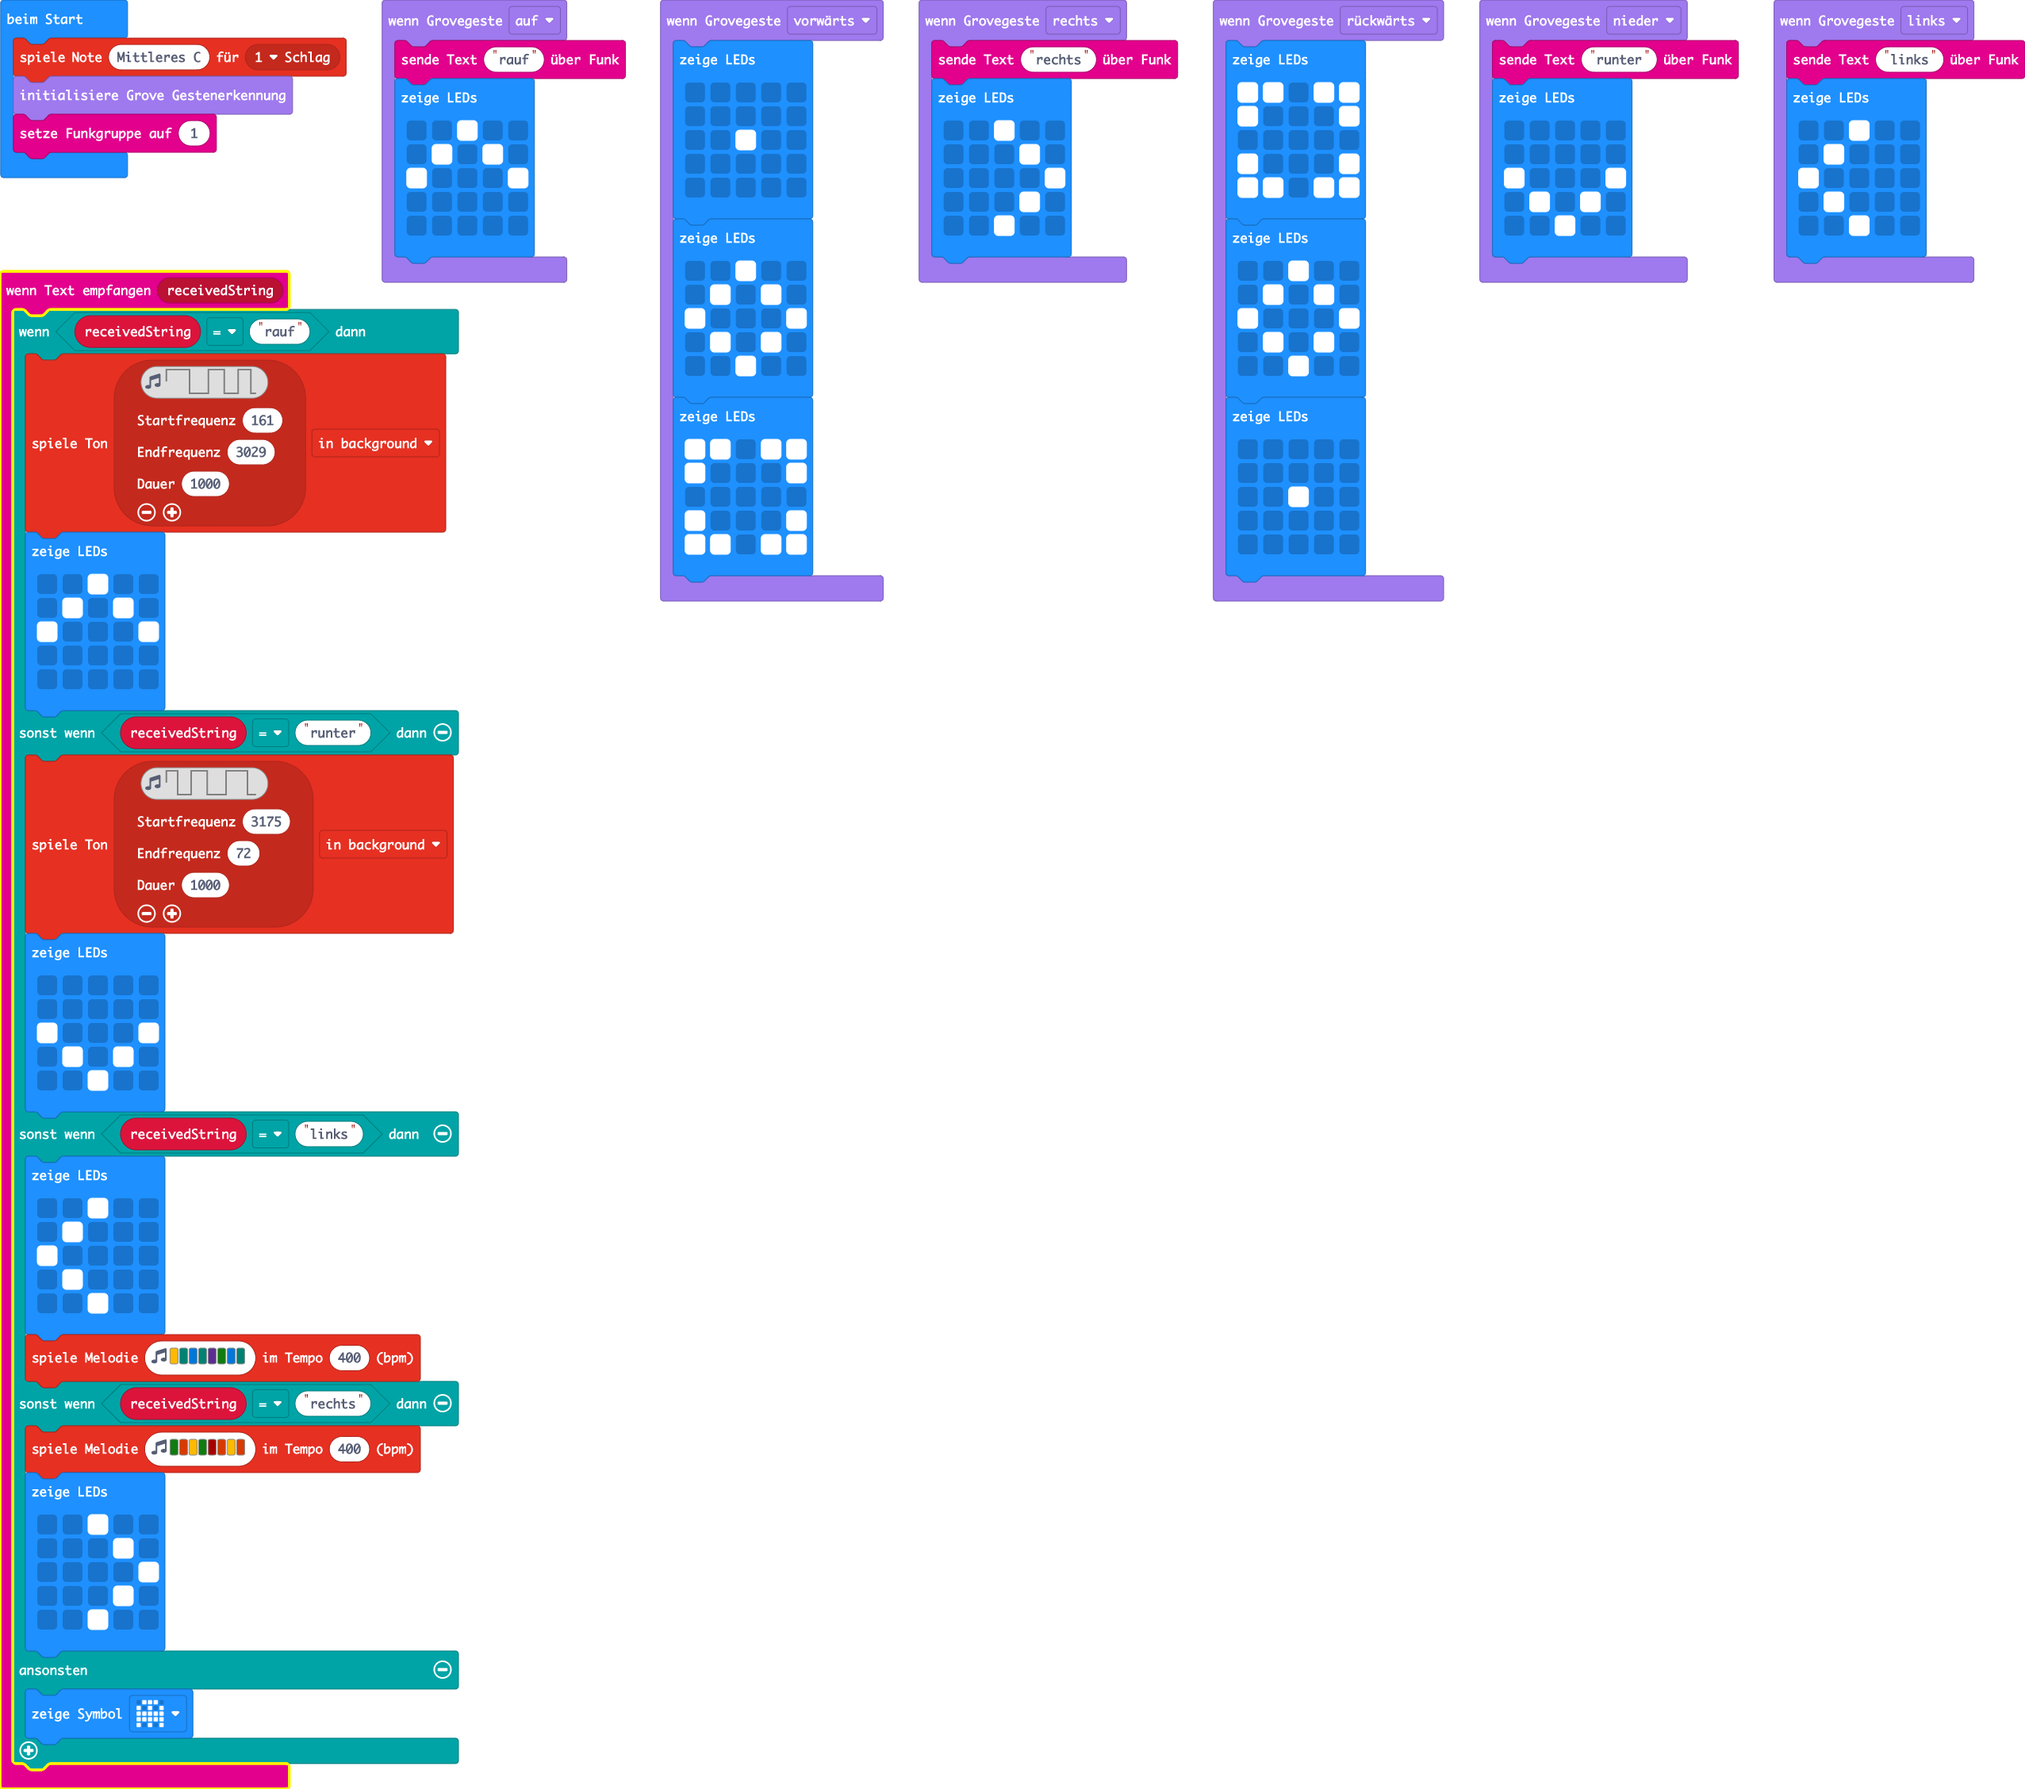
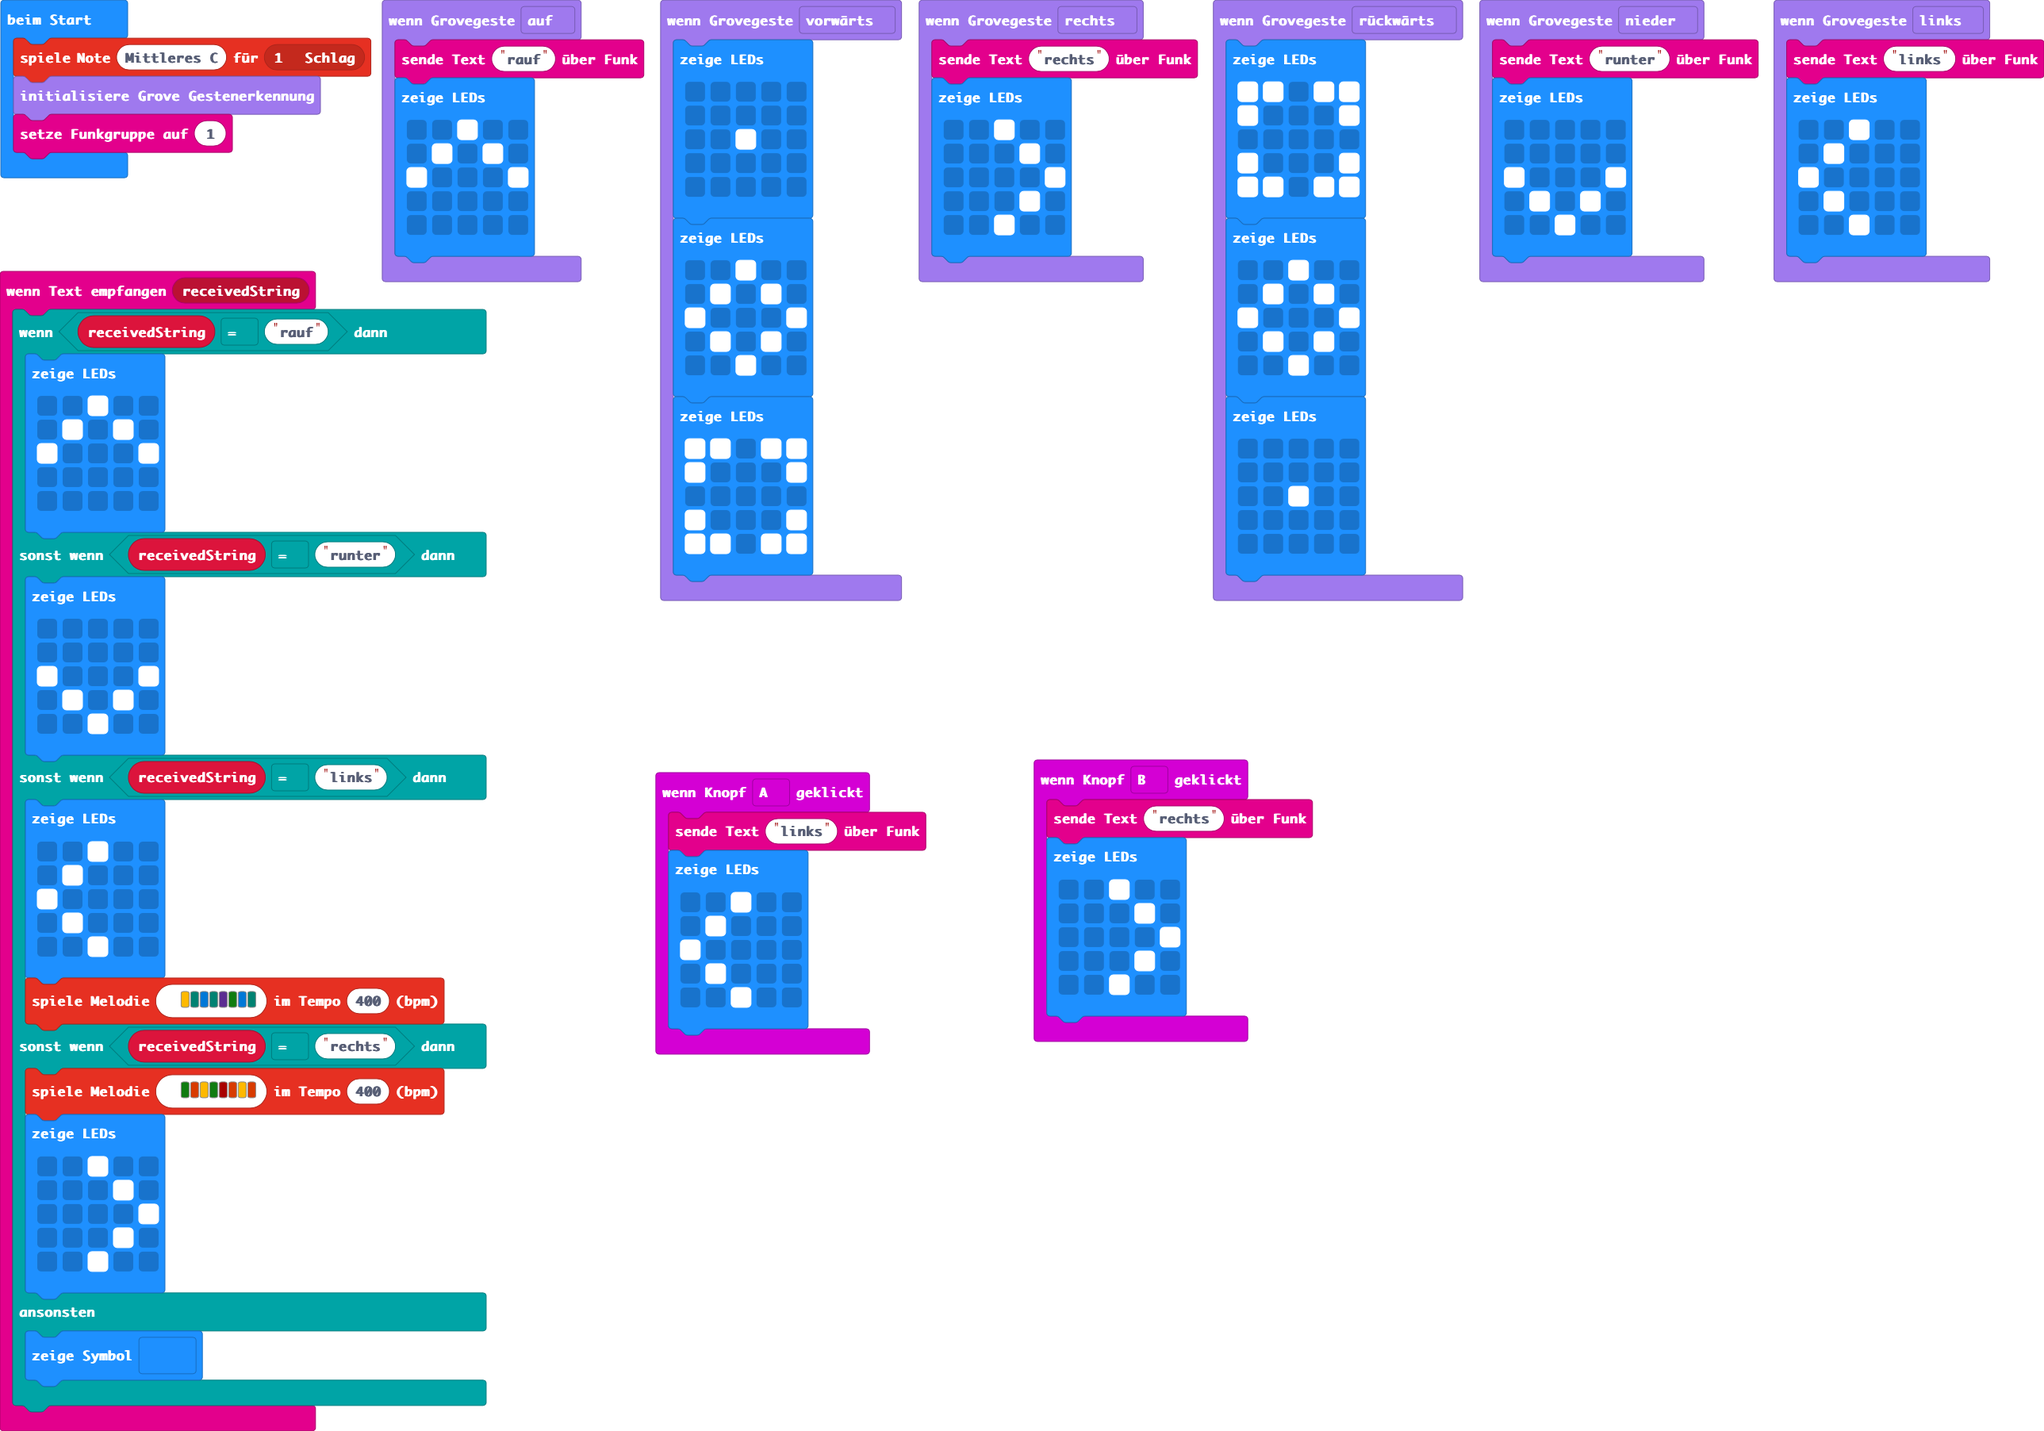
Knöpfe zum senden und anzeigen dazu getan

Changed region(s): [[0.0, 0.0, 1.0, 1.0], [0.3094, 0.5277, 0.4642, 0.745], [0.4951, 0.5277, 0.6498, 0.745]]

diff --git a/main.ts b/main.ts
@@ -18,6 +18,16 @@ grove.onGesture(GroveGesture.Up, function () {
         . . . . .
         `)
 })
+input.onButtonPressed(Button.A, function () {
+    radio.sendString("links")
+    basic.showLeds(`
+        . . # . .
+        . # . . .
+        # . . . .
+        . # . . .
+        . . # . .
+        `)
+})
 grove.onGesture(GroveGesture.Down, function () {
     radio.sendString("runter")
     basic.showLeds(`
@@ -63,16 +73,6 @@ grove.onGesture(GroveGesture.Left, function () {
 })
 radio.onReceivedString(function (receivedString) {
     if (receivedString == "rauf") {
-        music.playSoundEffect(music.createSoundEffect(
-        WaveShape.Square,
-        161,
-        3029,
-        255,
-        255,
-        1000,
-        SoundExpressionEffect.None,
-        InterpolationCurve.Curve
-        ), SoundExpressionPlayMode.InBackground)
         basic.showLeds(`
             . . # . .
             . # . # .
@@ -81,16 +81,6 @@ radio.onReceivedString(function (receivedString) {
             . . . . .
             `)
     } else if (receivedString == "runter") {
-        music.playSoundEffect(music.createSoundEffect(
-        WaveShape.Square,
-        3175,
-        72,
-        255,
-        255,
-        1000,
-        SoundExpressionEffect.None,
-        InterpolationCurve.Curve
-        ), SoundExpressionPlayMode.InBackground)
         basic.showLeds(`
             . . . . .
             . . . . .
@@ -119,6 +109,16 @@ radio.onReceivedString(function (receivedString) {
     } else {
         basic.showIcon(IconNames.Ghost)
     }
+})
+input.onButtonPressed(Button.B, function () {
+    radio.sendString("rechts")
+    basic.showLeds(`
+        . . # . .
+        . . . # .
+        . . . . #
+        . . . # .
+        . . # . .
+        `)
 })
 grove.onGesture(GroveGesture.Backward, function () {
     basic.showLeds(`
